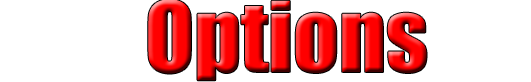
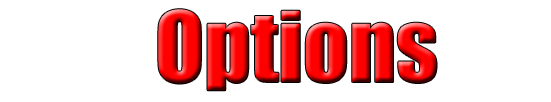
cleaned up gui a little. made quit button in game scene go to main menu instead of quit

Changed region(s): [[0.2712, 0.0, 0.8136, 1.0]]

diff --git a/SurviveOrSink/Assets/Scripts/MainMenu.cs b/SurviveOrSink/Assets/Scripts/MainMenu.cs
@@ -34,16 +34,16 @@ public class MainMenu : MonoBehaviour {
 	// Almost everything GUI-related goes here
 	void OnGUI() {
 		//initializing...
-		buttonH = 40;
-		buttonW = 265;
-		buttonSpace = 10;
+		buttonH = 51;
+		buttonW = 276;
+		buttonSpace = 2;
 		buttonHoriz = (int) Screen.width/2-buttonW/2;
 		buttonVert = 100;
 		rectPopup = new Rect((int)Screen.width/2-480,80,960,520);
 		GUI.skin = mySkin;
 		
 		//Game Logo
-		GUI.Box(new Rect(0,10,Screen.width,73),logo);
+		GUI.Box(new Rect(0,10,Screen.width,93),logo);
 		
 		if(!showPopup){
 			//Play button

diff --git a/SurviveOrSink/Assets/Scripts/Init_board.cs b/SurviveOrSink/Assets/Scripts/Init_board.cs
@@ -18,8 +18,8 @@ public class Init_board : MonoBehaviour
 			GUI.Label(new Rect(threeQuartersWidth,25,100,100), "BEGIN GAME!");
 		}
 		
-		if(GUI.Button(new Rect(Screen.width-100,0,100,20),"",quit))
-			Application.Quit();
+		if(GUI.Button(new Rect(Screen.width-138,0,138,26),"",quit))
+			Application.LoadLevel("MainMenu");
 		
 	}
 	
